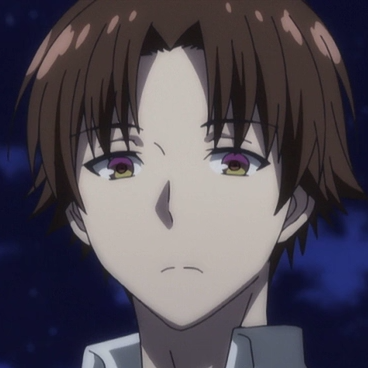
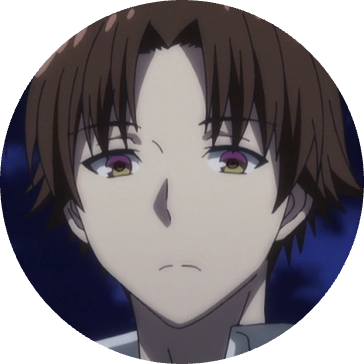
Modify img css

diff --git a/assets/media/img_crop.py b/assets/media/img_crop.py
@@ -1,0 +1,20 @@
+from PIL import Image, ImageOps
+import numpy as np
+
+# Load the image
+img_path = 'shoujuwang.png'
+img = Image.open(img_path)
+
+# Create a mask for the circular crop
+mask = Image.new('L', img.size, 0)
+mask_paste = ImageOps.fit(mask, (min(img.size), min(img.size)), centering=(0.5, 0.5))
+mask_draw = Image.new('L', mask_paste.size, 255)
+mask.paste(mask_draw, mask_paste.getbbox())
+
+# Apply the mask to the image
+img_round = ImageOps.fit(img, mask.size, centering=(0.5, 0.5))
+img_round.putalpha(mask)
+
+# Save the cropped image
+cropped_img_path = 'shoujuwangcrop.png'
+img_round.save(cropped_img_path)
